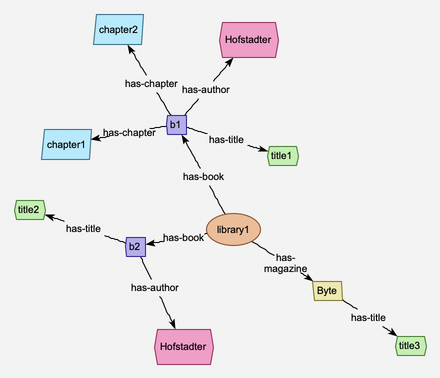
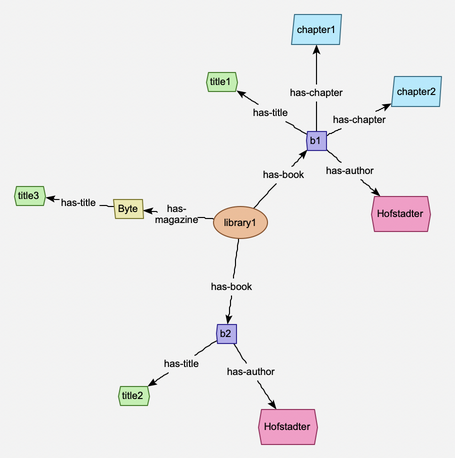
Hubs layout: only the core hubs on the ring; branches go straight out
Every hub of a connected group used to go on one ring: hubs that only hang
off another (eg: at the ends of chains) strung out round it, making the
ring far bigger than needed. Now only the core is on the ring -- hubs
linked to two others or more, pruning the rest again and again; if none's
left, the most connected one alone -- and the others hang off it, out
beyond, as spokes do. Below a hub's own spokes, children spread over no
more than a half-plane, the biggest branches in the middle, so branches
keep going out instead of curling round the hub. On the XMLreader's model
of animals.snm, the drawing is about two-thirds as wide.

diff --git a/src/sn/view/graphics/balloonLayout.py b/src/sn/view/graphics/balloonLayout.py
@@ -88,6 +88,11 @@ RADIAL_SPREAD = math.pi
 '''The widest a node's children's wedges may be, side by side, in the radial layout
 (see *radialPositions()*): the circles beyond it are moved out until they fit.'''
 
+HUB_SPREAD = math.pi
+'''The widest a hub layout's nodes below the hubs' own spokes spread their
+children: so the branches keep going out, away from the hub, rather than
+curling round it (see *hubPositions()*).'''
+
 ROW_LENGTH = 1600.0
 '''The longest a row of balloons (or radial trees, or groups of hubs) is,
 unless one's longer: they're put one after another along it, then in another
@@ -208,8 +213,10 @@ class _Balloons(Generic[K]):
   and where each node of one goes (*place()*).
   '''
   def __init__(self, kids:Mapping[K, Sequence[K]], sizes:Mapping[K, tuple[float, float]], spacing:float,
-               edgeRoom:Optional[Mapping[K, float]], parentGap:float):
+               edgeRoom:Optional[Mapping[K, float]], parentGap:float, spread:Optional[float]=None):
     self.kids, self.sizes, self.spacing, self.parentGap = kids, sizes, spacing, parentGap
+    self.spread = spread
+    "The widest a balloon's nodes below its root spread their children (else all but *parentGap*)."
     self.room = (lambda k: edgeRoom.get(k, spacing)) if edgeRoom else (lambda k: spacing)
     self.circles:dict = {}
     "The circles of each node measured (and not yet in its parent's), and its subtree's: from it, facing along x."
@@ -232,20 +239,31 @@ class _Balloons(Generic[K]):
       order.append(m)
       stack.extend(self.kids.get(m, ()))
     for m in reversed(order):
-      self._one(m, isRoot and m == n)
+      self._one(m, isRoot and m == n, m != n)
     return self.circles.pop(n)
 
-  def _one(self, m, isRoot:bool) -> None:
+  def _one(self, m, isRoot:bool, below:bool=False) -> None:
     r = radius(self.sizes[m])
     ks = self.kids.get(m, ())
     if not ks:
       self.circles[m], self.D[m], self.offsets[m] = [(0.0, 0.0, r)], 0.0, []
       return
     groups = [self.circles.pop(k) for k in ks]
+    if below and self.spread is not None and len(ks) > 2: # (the biggest branches in the middle, going straight on)
+      bySize = sorted(range(len(ks)), key=lambda i: (-len(groups[i]), i)) # (biggest first: from the middle out)
+      middle:deque = deque()
+      for j, i in enumerate(bySize):
+        if j % 2:
+          middle.appendleft(i)
+        else:
+          middle.append(i)
+      ks, groups = [ks[i] for i in middle], [groups[i] for i in middle]
     # (each child's circle clear of this one's by its room; the rest of its subtree by the spacing)
     least = [max(-x + math.sqrt(max(0.0, (r + (self.room(k) if i == 0 else self.spacing) + cr) ** 2 - y * y))
                  for i, (x, y, cr) in enumerate(g)) for k, g in zip(ks, groups)]
     avail = 2 * math.pi if isRoot else 2 * math.pi - self.parentGap
+    if below and self.spread is not None:
+      avail = min(avail, self.spread)
     d, angles = _ring(groups, avail, self.spacing / 2, least, centred=isRoot)
     circles:list[Circle] = [(0.0, 0.0, r)]
     for g, a in zip(groups, angles):
@@ -419,9 +437,14 @@ def hubForest(nodes:Sequence[K], neighbours:Mapping[K, Sequence[K]], minSpokes:i
   '''
   Find the hubs of a graph, and their spokes: in each connected group of
   nodes, the hubs are those with at least *minSpokes* neighbours (or, if
-  none has, the one with the most), the most first; every other node is a
-  spoke of the hub nearest it (the first of those as near), under the node
-  next nearer it. The hubs are in order round a ring: each after the one
+  none has, the one with the most), the most first -- but only the core of
+  them, those linked (through their spokes) to two others or more, once
+  those linked to fewer are taken off, again and again (if none's left --
+  eg: the hubs make a tree -- the one with the most neighbours, alone): one
+  that hangs off another goes out beyond it, as its spokes do, so the ring
+  is no bigger than the core needs. (Not a pinned hub: it's cut out, below.) Every
+  other node is a spoke of the hub nearest it (the first of those as near),
+  under the node next nearer it. The hubs are in order round a ring: each after the one
   most related to the one before (the relations between their spokes too).
   A *pinned* node (eg: one the user's put somewhere) that's a spoke, or one
   of a ring's hubs, is cut out of its group (with the spokes under it) as
@@ -468,22 +491,40 @@ def hubForest(nodes:Sequence[K], neighbours:Mapping[K, Sequence[K]], minSpokes:i
       continue
     hubs = sorted((n for n in comp if degree[n] >= minSpokes), key=lambda n: (-degree[n], index[n])) \
            or [min(comp, key=lambda n: (-degree[n], index[n]))]
-    owner = {h: h for h in hubs}
-    kids:dict[K, list[K]] = {n: [] for n in comp}
-    queue = deque(hubs)
-    while queue:
-      n = queue.popleft()
-      for m in nbrs[n]:
-        if m not in owner:
-          owner[m] = owner[n]
-          kids[n].append(m)
-          queue.append(m)
-    links:dict[tuple[K, K], int] = {}
-    for n in comp:
-      for m in nbrs[n]:
-        a, b = owner[n], owner[m]
-        if a != b:
-          links[(a, b)] = links.get((a, b), 0) + 1
+    def spokes(hubs:list[K]) -> tuple[dict[K, K], dict[K, list[K]], dict[tuple[K, K], int]]:
+      "Each node's hub, and its children (spokes of the nearest hub, under the node next nearer); and the links between the hubs' nodes."
+      owner = {h: h for h in hubs}
+      kids:dict[K, list[K]] = {n: [] for n in comp}
+      queue = deque(hubs)
+      while queue:
+        n = queue.popleft()
+        for m in nbrs[n]:
+          if m not in owner:
+            owner[m] = owner[n]
+            kids[n].append(m)
+            queue.append(m)
+      links:dict[tuple[K, K], int] = {}
+      for n in comp:
+        for m in nbrs[n]:
+          a, b = owner[n], owner[m]
+          if a != b:
+            links[(a, b)] = links.get((a, b), 0) + 1
+      return owner, kids, links
+    owner, kids, links = spokes(hubs)
+    # (only the core on the ring: a hub linked to fewer than two others -- once those hanging off it are
+    # taken off -- goes out beyond the hub it hangs off, in its balloon, as its spokes do)
+    # (a pinned hub's cut out below anyway: never the core)
+    core = {h for h in hubs if h not in pinned}
+    pruned = True
+    while pruned and core:
+      pruned = False
+      for h in list(core):
+        if sum(1 for g in core if g is not h and (links.get((h, g)) or links.get((g, h)))) < 2:
+          core.discard(h)
+          pruned = True
+    if len(core) < len(hubs):
+      hubs = [h for h in hubs if h in core] or [next((h for h in hubs if h not in pinned), hubs[0])]
+      owner, kids, links = spokes(hubs)
     ring = [hubs[0]]
     rest = hubs[1:]
     while rest:
@@ -513,9 +554,11 @@ def hubPositions(hubs:list[K], children:Mapping[K, Sequence[K]], sizes:Mapping[K
   each hub's spokes in a balloon round it (see *balloonPositions()*), and the
   hubs on a ring, in order (from the top, clockwise), their spokes spread
   round the way away from its middle (keeping *parentGap* toward the middle
-  clear, for the relations between the hubs). The ring's as small as it can
-  be with each hub's balloon in its own wedge (as for *balloonPositions()*). A
-  single hub's balloon is all round it.
+  clear, for the relations between the hubs). Below the spokes, each node's
+  children are spread over no more than *HUB_SPREAD*, facing away from it,
+  the biggest branches in the middle: so the branches keep going out. The ring's as small as it can be with each
+  hub's balloon in its own wedge (as for *balloonPositions()*). A single
+  hub's balloon is all round it.
 
   :param hubs: The hubs, in order round the ring.
   :type hubs: list[K]
@@ -533,7 +576,7 @@ def hubPositions(hubs:list[K], children:Mapping[K, Sequence[K]], sizes:Mapping[K
     the radius of a circle round them all.
   :rtype: tuple[dict[K, tuple[float, float]], float]
   '''
-  b = _Balloons(children, sizes, spacing, edgeRoom, parentGap)
+  b = _Balloons(children, sizes, spacing, edgeRoom, parentGap, spread=HUB_SPREAD)
   out:dict[K, tuple[float, float]] = {}
   if len(hubs) == 1:
     b.measure(hubs[0], True)

diff --git a/test/test_view/test_balloonLayout.py b/test/test_view/test_balloonLayout.py
@@ -227,28 +227,71 @@ class Test(unittest.TestCase):
     self.assertEqual(isolated, ["z"])
     self.assertEqual(len(groups), 2)
     hubs, kids = groups[0]
-    self.assertEqual(sorted(hubs), ["h1", "h2"])
-    self.assertEqual(sorted(kids["h1"]), ["a", "b", "c"])                # h2's a hub: not h1's spoke
-    self.assertEqual(sorted(kids["h2"]), ["d", "e", "f"])
+    self.assertEqual(hubs, ["h1"])                                        # h2 hangs off h1: no ring of two
+    self.assertEqual(sorted(kids["h1"]), ["a", "b", "c", "h2"])
+    self.assertEqual(sorted(kids["h2"]), ["d", "e", "f"])                 # (with its spokes)
     self.assertEqual(kids["c"], ["g"])                                    # under the spoke nearer it
     self.assertEqual(groups[1][0], ["x"])                                 # no hub: the one with the most (the first)
     self.assertEqual(groups[1][1]["x"], ["y"])
 
   def test0900hubRingOrder(self):
-    # hubs in a chain p - q - r - s (each with spokes), given most-connected first: the ring follows the chain
+    # hubs in a cycle p - q - r - s - t - p (each with spokes), given most-connected first: the ring follows it
     nbrs:dict = {}
     def link(a, b):
       nbrs.setdefault(a, []).append(b)
       nbrs.setdefault(b, []).append(a)
-    for h in "pqrs":
+    for h in "pqrst":
       for i in range(3 if h != "q" else 4):
         link(h, f"{h}{i}")
-    link("p", "q"); link("q", "r"); link("r", "s")
+    link("p", "q"); link("q", "r"); link("r", "s"); link("s", "t"); link("t", "p")
     groups, _ = hubForest(sorted(nbrs), nbrs, minSpokes=3)
     ring = groups[0][0]
     self.assertEqual(ring[0], "q")                                        # the most related first
+    self.assertEqual(sorted(ring), list("pqrst"))
     for a, b in zip(ring, ring[1:]):
       self.assertIn(b, nbrs[a] + [x for y in nbrs[a] for x in nbrs.get(y, [])])
+
+  def test0950hubsHangingOffTheCoreGoOutBeyondIt(self):
+    # a core of three hubs (a triangle p, q, r), and hubs hanging off it: s off r, u off s (a chain), v off q
+    nbrs:dict = {}
+    def link(a, b):
+      nbrs.setdefault(a, []).append(b)
+      nbrs.setdefault(b, []).append(a)
+    for h in "pqrsuv":
+      for i in range(3):
+        link(h, f"{h}{i}")
+    link("p", "q"); link("q", "r"); link("r", "p"); link("r", "s"); link("s", "u"); link("q", "v")
+    groups, _ = hubForest(sorted(nbrs), nbrs, minSpokes=3)
+    ring, kids = groups[0]
+    self.assertEqual(sorted(ring), ["p", "q", "r"])                       # only the core on the ring
+    self.assertIn("s", kids["r"]); self.assertIn("u", kids["s"]); self.assertIn("v", kids["q"])
+    sizes = {n: (40, 20) for n in nbrs}
+    pos, _ = hubPositions(ring, kids, sizes, spacing=10)
+    self.assertEqual(overlapping(boxes(pos, sizes)), [])
+    out = lambda n: math.hypot(*pos[n])
+    self.assertGreater(out("s"), out("r")); self.assertGreater(out("u"), out("s")); self.assertGreater(out("v"), out("q"))
+    # hubs making a tree (a chain): the most connected alone, the rest hanging off it
+    nbrs = {}
+    for h in "pqr":
+      for i in range(3 if h != "q" else 4):
+        link(h, f"{h}{i}")
+    link("p", "q"); link("q", "r")
+    groups, _ = hubForest(sorted(nbrs), nbrs, minSpokes=3)
+    self.assertEqual(groups[0][0], ["q"])
+
+  def test0960hubBranchesGoStraightOut(self):
+    # a hub h with spokes; spoke s has leaves l0..l3 and a long branch b0 - b1 - b2 - b3: the branch straight on
+    kids = {"h": ["s", "t", "u"], "s": ["l0", "l1", "b0", "l2", "l3"], "b0": ["b1"], "b1": ["b2"], "b2": ["b3"]}
+    kids["s"] = ["b0", "l0", "l1", "l2", "l3"] # (given first: still put in the middle)
+    nodes = {n for k, v in kids.items() for n in [k, *v]}
+    sizes = {n: (40, 20) for n in nodes}
+    pos, _ = hubPositions(["h"], kids, sizes, spacing=10)
+    turn = lambda p, q: abs((math.atan2(p[1], p[0]) - math.atan2(q[1], q[0]) + math.pi) % (2 * math.pi) - math.pi)
+    rel = lambda n, base: (pos[n][0] - pos[base][0], pos[n][1] - pos[base][1])
+    self.assertLess(turn(rel("b0", "s"), pos["s"]), math.pi / 8)           # on along the line from the hub through s
+    for a, b in (("b0", "b1"), ("b1", "b2"), ("b2", "b3")):
+      self.assertGreater(math.hypot(*pos[b]), math.hypot(*pos[a]))          # ever further out
+    self.assertEqual(overlapping(boxes(pos, sizes)), [])
 
   def test1000hubPositionsDontOverlap(self):
     rnd = random.Random(9)

diff --git a/sphinx/source/user/layouts.rst b/sphinx/source/user/layouts.rst
@@ -124,16 +124,22 @@ Hubs
 The **hubs** layout needs no relation type: it uses every relation shown.
 In each group of connected nodes, the ones with at least a given number of
 relations (**A hub has at least this many relations**: 3, to start with)
-are hubs, each with the nodes nearest it round it like spokes; the hubs go on
-a circle, with their spokes facing out. It suits networks that aren't trees
--- eg: what the XMLreader makes of an XML file (see :doc:`exampleApps`).
+are hubs, each with the nodes nearest it round it like spokes. The hubs
+linked to two or more others make the core, which goes on a circle, with
+their spokes facing out; a hub that just hangs off another (eg: at the end
+of a chain) goes out beyond it, with the spokes, rather than on the circle --
+so the circle stays small. (If the hubs make a tree, there's no circle: the
+one with the most relations is in the middle.) Branches keep going outward,
+the longest straight out. It suits networks that aren't trees -- eg: what
+the XMLreader makes of an XML file (see :doc:`exampleApps`).
 
 .. figure:: ../images/user/layout-hubs.png
    :alt: A small library model arranged round hubs: library1 in the middle, its books b1 and b2 and the magazine Byte round it, and each book's title, author and chapters round the book
    :width: 360px
 
    **hubs**, on the XMLreader's model of *books.xml*: the library, and each
-   of its books, is a hub.
+   of its books, is a hub; the books hang off the library, so they go out
+   beyond it.
 
 Keeping a view arranged
 -----------------------

diff --git a/sphinx/source/developer/layout.rst b/sphinx/source/developer/layout.rst
@@ -193,7 +193,13 @@ function:
 :py:func:`~sn.view.graphics.balloonLayout.hubForest` and :py:func:`~sn.view.graphics.balloonLayout.hubPositions`
   For a graph that isn't a tree: in each connected group, the nodes with at
   least ``minSpokes`` neighbours are hubs, each other node a spoke of the
-  nearest; the hubs on a ring, each one's spokes in a balloon round it.
+  nearest; the hubs on a ring, each one's spokes in a balloon round it. Only
+  the core hubs go on the ring (those linked to two others or more, once
+  those linked to fewer are pruned, again and again; if none's left, the
+  most connected one alone): the rest hang off them, out beyond them, as
+  spokes do. Below a hub's own spokes, children spread over no more than
+  ``HUB_SPREAD`` (a half-plane), the biggest branches in the middle, so
+  branches keep going out rather than curling round the hub.
 
 Balloon and radial find their trees with a *TreeLayout* (``structure()``).
 With ``trees="joined"`` (the default), ``_TreeRoundLayout._join()`` then
